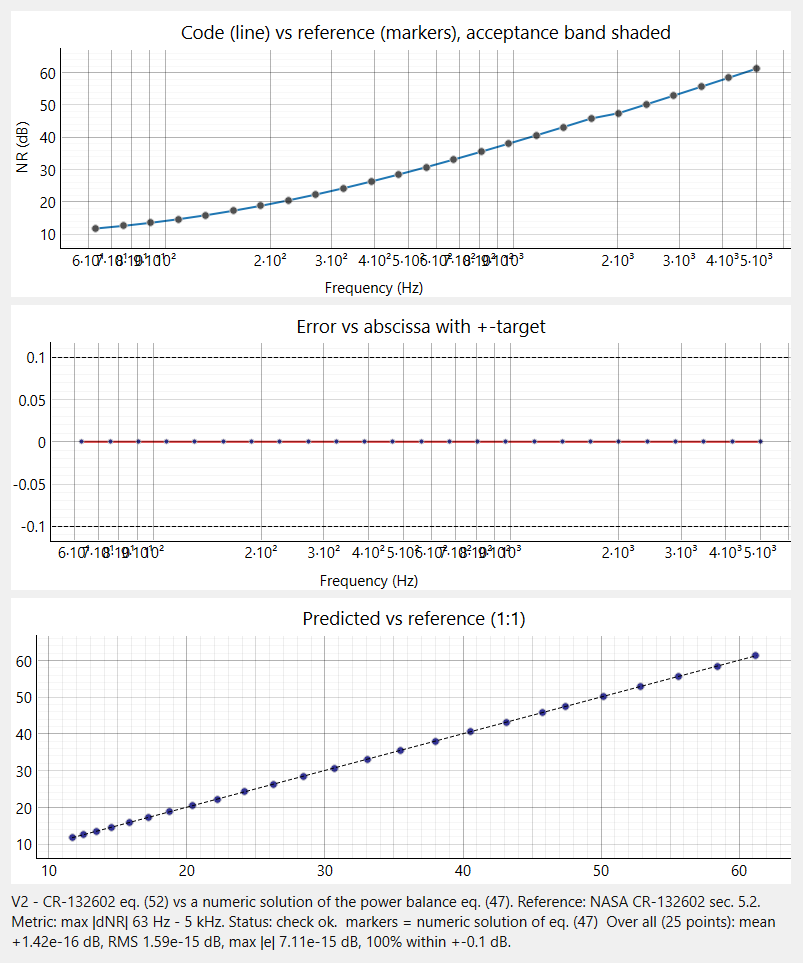
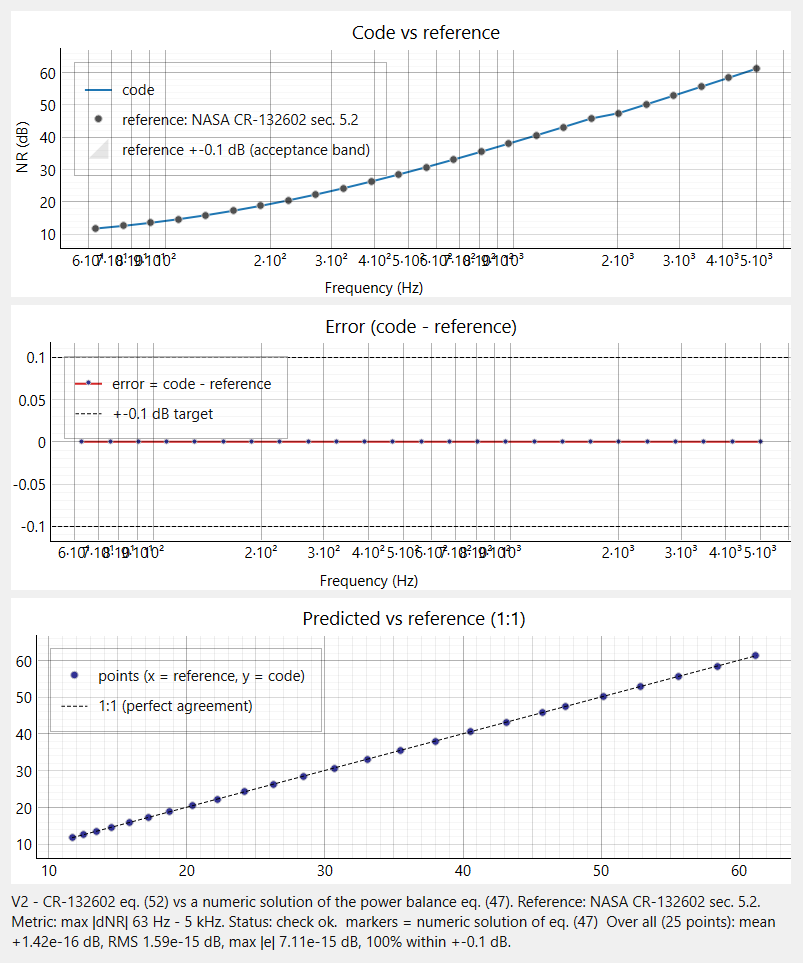
Cabin_Noise: legends on the Validation charts; figures regenerated (no result changed)

diff --git a/Cabin_Noise/cabin_noise/gui/validation_tab.py b/Cabin_Noise/cabin_noise/gui/validation_tab.py
@@ -2,6 +2,7 @@
 from __future__ import annotations
 
 import html
+import re
 
 import numpy as np
 import pyqtgraph as pg
@@ -53,11 +54,14 @@ class ValidationTab(QWidget):
         split.addWidget(self.views)
         right = QWidget()
         rv = QVBoxLayout(right)
-        self.overlay = pg.PlotWidget(title="Code (line) vs reference (markers), acceptance band shaded")
-        self.error = pg.PlotWidget(title="Error vs abscissa with +-target")
+        self.overlay = pg.PlotWidget(title="Code vs reference")
+        self.error = pg.PlotWidget(title="Error (code - reference)")
         self.scatter = pg.PlotWidget(title="Predicted vs reference (1:1)")
+        self.legends = {}
         for w in (self.overlay, self.error, self.scatter):
             w.showGrid(x=True, y=True, alpha=0.3)
+            self.legends[w] = w.addLegend(offset=(10, 10), labelTextColor="#111", brush=(255, 255, 255, 170),
+                                          pen=(180, 180, 180))     # top left: the curves here mostly rise
             rv.addWidget(w)
         self.caption = QLabel()
         self.caption.setWordWrap(True)
@@ -118,9 +122,15 @@ class ValidationTab(QWidget):
             self.table.setCurrentCell(self.ids.index(cid), 0)
             self.show_case(self.ids.index(cid))
 
+    @staticmethod
+    def _key(legend, name, **opts):
+        """Legend entry for an item that has no plot curve of its own (a shaded band or a constant line)."""
+        legend.addItem(pg.PlotDataItem([], [], **opts), name)
+
     def show_case(self, r):
         for w in (self.overlay, self.error, self.scatter):
             w.clear()
+            self.legends[w].clear()
         if not (0 <= r < len(self.results)):
             return
         res = self.results[r]
@@ -136,7 +146,8 @@ class ValidationTab(QWidget):
             w.setLogMode(x=logx, y=False)
             w.setLabel("bottom", res.xlabel)
         self.overlay.setLabel("left", res.ylabel)
-        self.overlay.plot(res.x, res.code, pen=pg.mkPen((31, 119, 180), width=2))
+        ref_name = re.sub(r"\s*\([^)]*\.(csv|json)[^)]*\)", "", m["reference"])   # drop the data file names
+        self.overlay.plot(res.x, res.code, pen=pg.mkPen((31, 119, 180), width=2), name="code")
         if res.ref is not None:
             ok = np.isfinite(res.ref)
             tgt = m.get("tol_db", res.target if res.unit == "dB" else 0.0) or 0.0
@@ -147,21 +158,26 @@ class ValidationTab(QWidget):
                     it.setLogMode(logx, False)
                 self.overlay.addItem(pg.FillBetweenItem(up, dn, brush=pg.mkBrush(150, 150, 150, 60)))
             self.overlay.plot(res.x[ok], res.ref[ok], pen=None, symbol="o", symbolSize=6,
-                              symbolBrush=(80, 80, 80))
+                              symbolBrush=(80, 80, 80), name=f"reference: {ref_name}")
+            if tgt:
+                self._key(self.legends[self.overlay], f"reference +-{tgt:g} dB (acceptance band)", pen=None,
+                          fillLevel=0, fillBrush=pg.mkBrush(150, 150, 150, 60))
             curves = {k: v for k, v in res.series.items() if isinstance(v, np.ndarray) and v.shape == res.x.shape}
-            self.overlay.addLegend(offset=(-10, 10)).setVisible(bool(curves))   # persists across cases
             if curves:                                       # information curves (no criterion)
                 for (k, val), sym in zip(curves.items(), ("t", "s", "d", "+")):
                     self.overlay.plot(res.x, val, pen=pg.mkPen((120, 120, 120), width=1, style=Qt.DashLine),
                                       symbol=sym, symbolSize=6, name=k)
             err = res.code[ok] - res.ref[ok]
-            self.error.plot(res.x[ok], err, pen=pg.mkPen((214, 39, 40), width=2), symbol="o", symbolSize=4)
+            self.error.plot(res.x[ok], err, pen=pg.mkPen((214, 39, 40), width=2), symbol="o", symbolSize=4,
+                            name="error = code - reference")
             if tgt:
                 for s in (-tgt, tgt):
                     self.error.addItem(pg.InfiniteLine(pos=s, angle=0, pen=pg.mkPen("k", style=Qt.DashLine)))
-            self.scatter.plot(res.ref[ok], res.code[ok], pen=None, symbol="o", symbolSize=6)
+                self._key(self.legends[self.error], f"+-{tgt:g} dB target", pen=pg.mkPen("k", style=Qt.DashLine))
+            self.scatter.plot(res.ref[ok], res.code[ok], pen=None, symbol="o", symbolSize=6,
+                              name="points (x = reference, y = code)")
             lo, hi = float(np.min(res.ref[ok])), float(np.max(res.ref[ok]))
-            self.scatter.plot([lo, hi], [lo, hi], pen=pg.mkPen("k", style=Qt.DashLine))
+            self.scatter.plot([lo, hi], [lo, hi], pen=pg.mkPen("k", style=Qt.DashLine), name="1:1 (perfect agreement)")
             e = err[criterion_range(m, res.x[ok])]               # the points the verdict counts
             if e.size:
                 within = f", {np.mean(np.abs(e) <= tgt) * 100:.0f}% within +-{tgt:g} dB" if tgt else ""
@@ -174,6 +190,7 @@ class ValidationTab(QWidget):
                 if isinstance(val, float):
                     self.overlay.addItem(pg.InfiniteLine(pos=np.log10(val) if logx else val, angle=90,
                                                          label=k, pen=pg.mkPen("k", style=Qt.DashLine)))
+                    self._key(self.legends[self.overlay], f"{k} = {val:.4g}", pen=pg.mkPen("k", style=Qt.DashLine))
 
     def report_html(self) -> str:
         if not self.results:

diff --git a/Cabin_Noise/scripts/smoke_gui.py b/Cabin_Noise/scripts/smoke_gui.py
@@ -87,6 +87,12 @@ def main():
                 w.validation.show_case(r)
                 if f"{res.value:.0f}% within" not in w.validation.caption.text():
                     failures.append(f"{res.id} caption disagrees with its verdict ({res.value:.0f}%)")
+        for r, res in enumerate(w.validation.results):     # every chart with a reference has a legend
+            if res.ref is not None and res.code is not None:
+                w.validation.show_case(r)
+                names = [lab.text for _, lab in w.validation.legends[w.validation.overlay].items]
+                if "code" not in names or not any(n.startswith("reference:") for n in names):
+                    failures.append(f"{res.id} chart legend missing code / reference: {names}")
         if shots:
             shots.mkdir(parents=True, exist_ok=True)
             for i in range(w.plot_tabs.count()):

diff --git a/Cabin_Noise/projectPlan.md b/Cabin_Noise/projectPlan.md
@@ -586,3 +586,9 @@ Everything below is digitized under `PAIN_Program/data` and can be copied withou
   - Before the first run the results bar says "Not run yet". An edit marks it "Not up to date" and greys the last run's numbers. A run that finishes after a later edit is marked the same way.
   - Smoke checks: the window opens with no run; an edit starts no run; an edit after a run marks the bar out of date.
 
+### Validation chart legends (2026-11-03, author's request)
+- All three Validation panels have a legend (top left). It names the code curve, the reference with its source, the +-target acceptance band, the target lines, the 1:1 line and any information curves. A case with no reference data lists its marker lines with their values.
+- The panel titles are shortened to "Code vs reference", "Error (code - reference)" and "Predicted vs reference (1:1)".
+- The docs/figures PNGs were regenerated. No result changed (same values as the record).
+- Smoke check: every case with a reference has the code and reference entries in its legend.
+

diff --git a/Cabin_Noise/VALIDATION.md b/Cabin_Noise/VALIDATION.md
@@ -215,4 +215,4 @@ The script runs every case, which takes a few minutes, and saves one PNG per cas
 - the error, with ±target;
 - predicted against reference, on a 1:1 line.
 
-The caption below them gives the statistics over the points the verdict counts.
+Each panel has a legend naming its curves (code, the reference and its source, the acceptance band, the target lines, the 1:1 line, and any information curves). The caption below them gives the statistics over the points the verdict counts.
